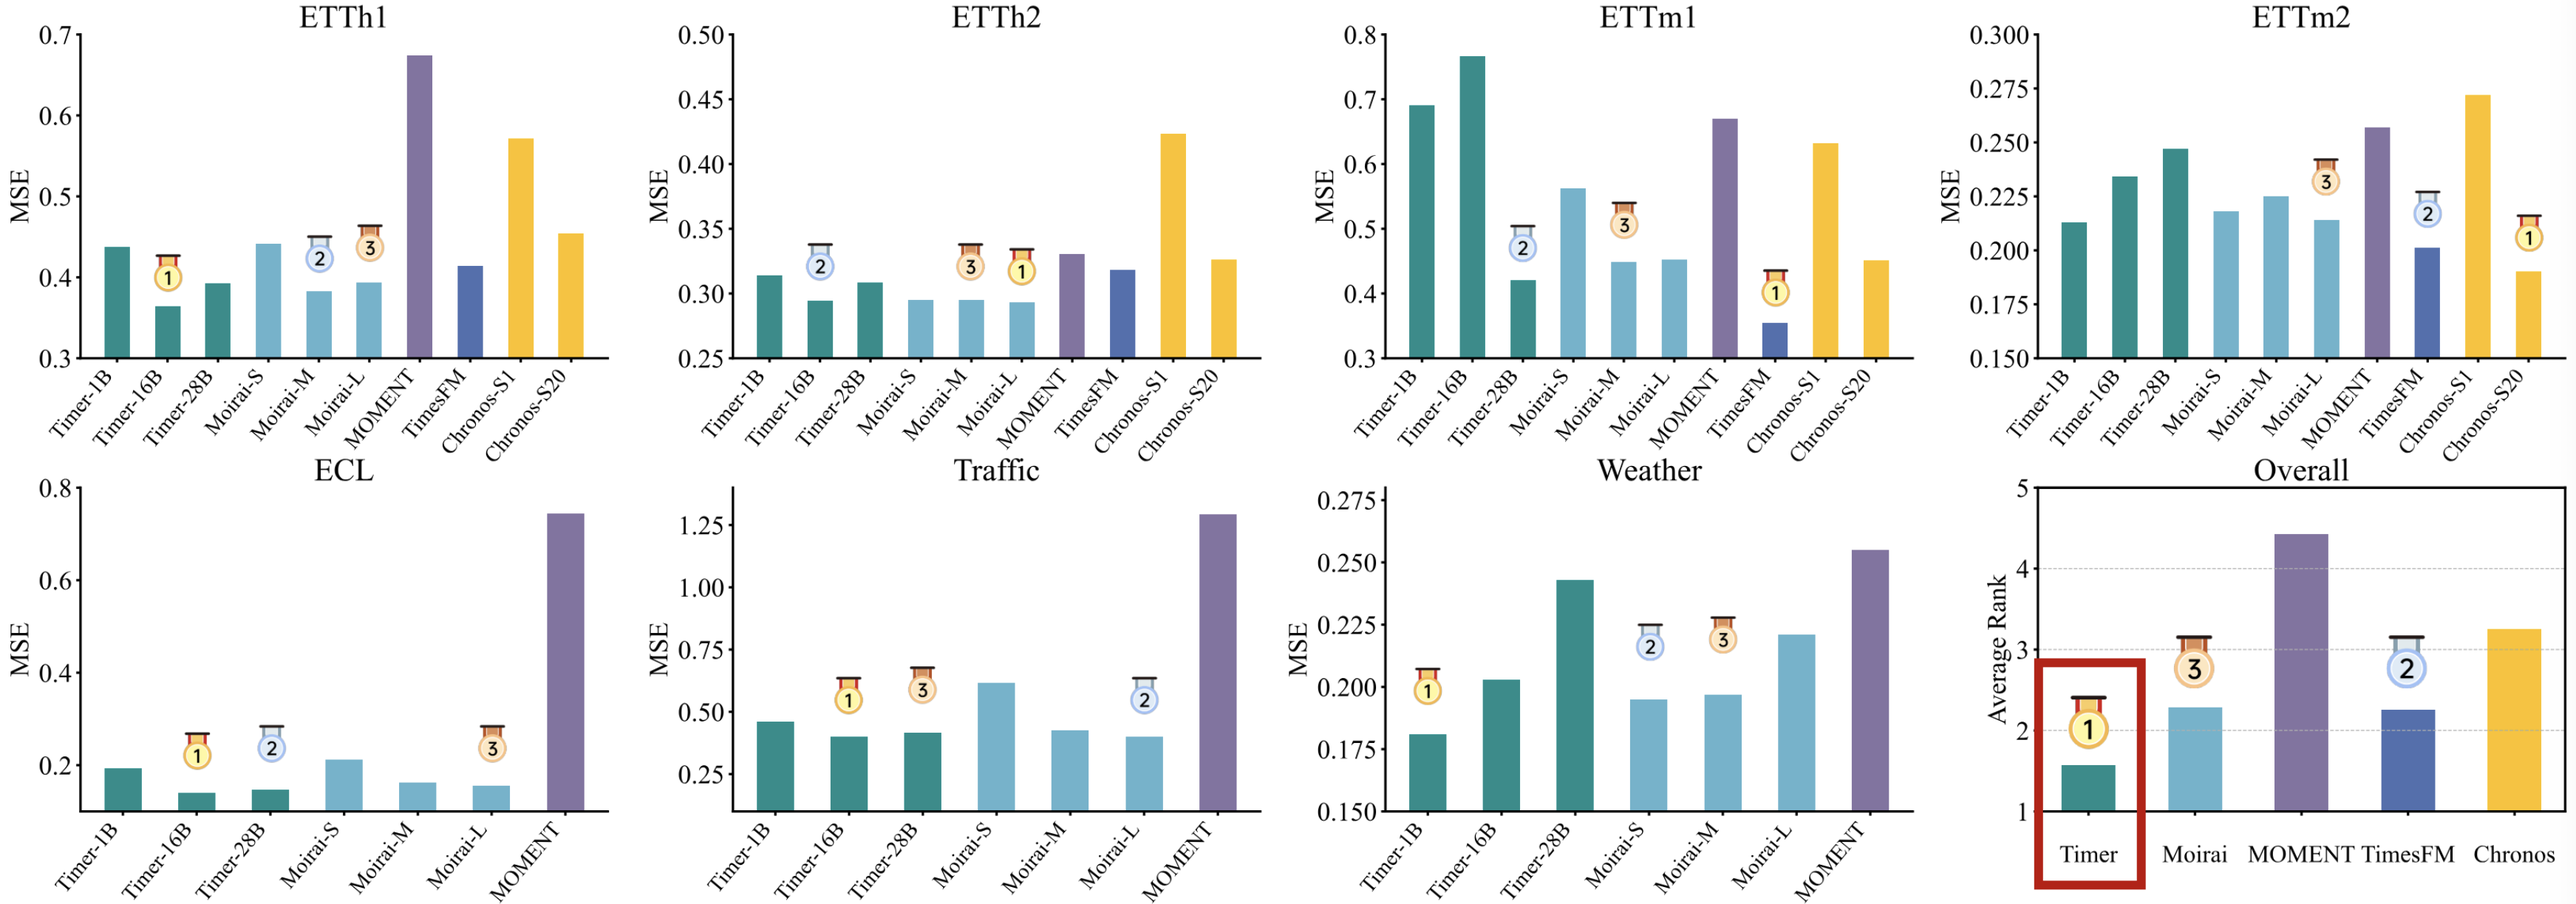
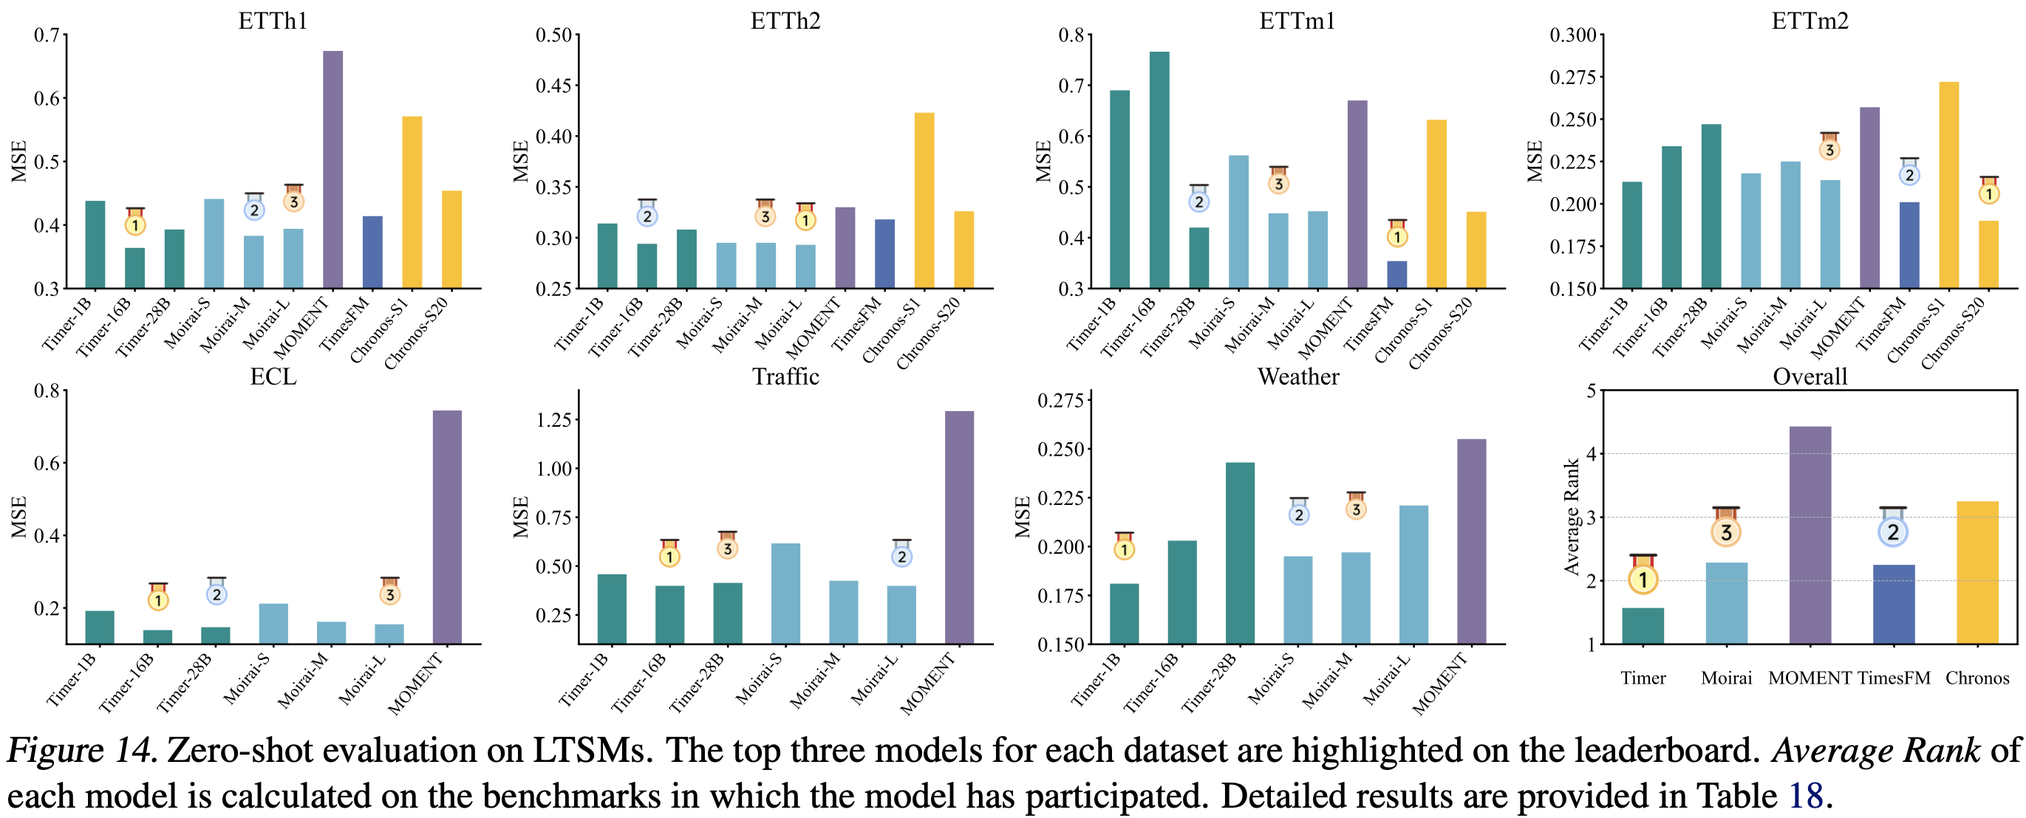
update readme

diff --git a/README.md b/README.md
@@ -133,21 +133,30 @@ The decoder-only architecture provides the flexibility to accommodate time serie
 
 ## Benchmark
 
-Given the significant value to researchers and practitioners, we provide a summary of concurrent LTSMs:
+Given the significant value to researchers and practitioners, we provide a summary of several concurrent Large Time Series Models:
+
+* [MOMENT](https://arxiv.org/abs/2402.03885) is trained on large scale by masking modeling. It can be applied to zero-shot forecasting by concatenating lookback series with a mask with the length to be predicted.
+* [Chronos](https://arxiv.org/abs/2403.07815) is a probabilistic point-level forecaster developed by [Amazon](https://huggingface.co/amazon/chronos-t5-large). Chronos-S1 samples one prediction trajectory and Chronos-S20 uses the mean of sampled 20 trajectories.
+* [TimesFM](https://arxiv.org/abs/2310.10688) from Google is trained on 100B time points. We use the official checkpoint from [HuggingFace]( https://huggingface.co/google/timesfm-1.0-200m). It supports dynamic input and output prediction lengths.
+* [Moiria]() is developed by Saleforce, exceling at multivariate time series. It has three different [checkpoints](https://huggingface.co/collections/Salesforce/moirai-10-r-models-65c8d3a94c51428c300e0742), labeled as Moiria-S, Moiria-M, and Moiria-L.
+* Timer: We evaluate three versions: Timer-1B is pre-trained on UTSD; Timer-16B is pre-trained on UTSD and [Buildings900K](https://arxiv.org/abs/2307.00142); and Timer-28B is pre-trained on UTSD and [LOTSA](https://huggingface.co/datasets/Salesforce/lotsa\_data).
 
 <p align="center">
 <img src="./figures/quality.png" alt="300" align=center />
 </p>
 
-We also establish the first zero-shot benchmark to measure LTSMs as a general-purpose forecaster.
+We also establish the first **zero-shot benchmark** to measure LTSMs as a general-purpose forecaster.
+
+<p align="center">
+<img src="./figures/zero-shot-all.png" alt="300" align=center />
+</p>
 
 <p align="center">
 <img src="./figures/zero-shot.png" alt="300" align=center />
 </p>
 
-It should be noticed that the zero-shot performance of concurrent Large Time Series models is still lagged behind large models based on few-shot fine-tuning or end-to-end training (similar to the challenges GPT-3 faced in 2020). 
 
-This is why we hightlight the few-shot ability of LTSMs instead of making zero-shot predictions on real-world application now. It is a long but promising direction to develop large models for ZSF.
+It should be noticed that the zero-shot performance of concurrent Large Time Series Models is still lagged behind large models based on few-shot fine-tuning or end-to-end training (similar to the challenges GPT-3 faced in 2020). 
 
 
 ## Citation
@@ -166,6 +175,8 @@ If you find this repo helpful, please cite our paper.
 
 We appreciate the following GitHub repos a lot for their valuable code and efforts.
 - Time-Series-Library (https://github.com/thuml/Time-Series-Library)
+- LOTSA (https://huggingface.co/datasets/Salesforce/lotsa_data) 
+- UCR Anomaly Archiv (https://arxiv.org/abs/2009.13807)
 
 
 ## Contributors
